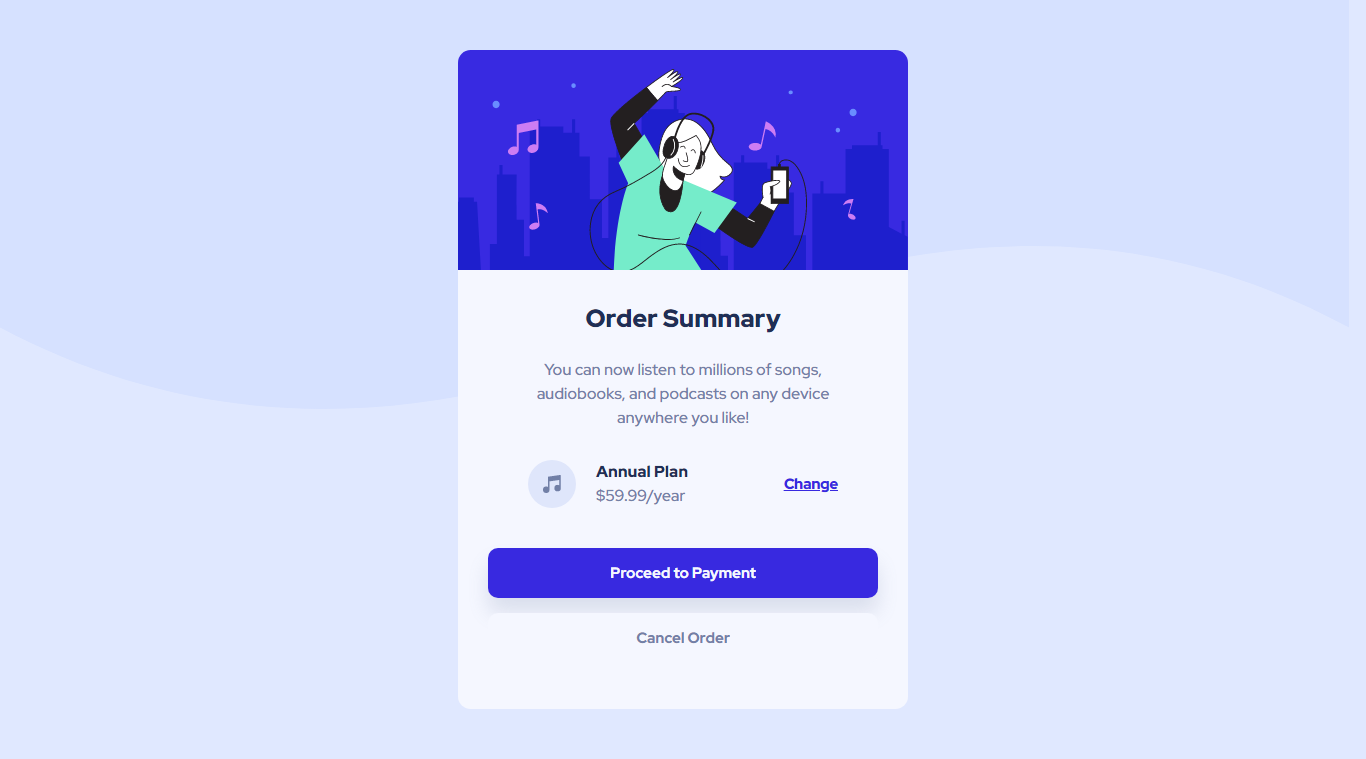
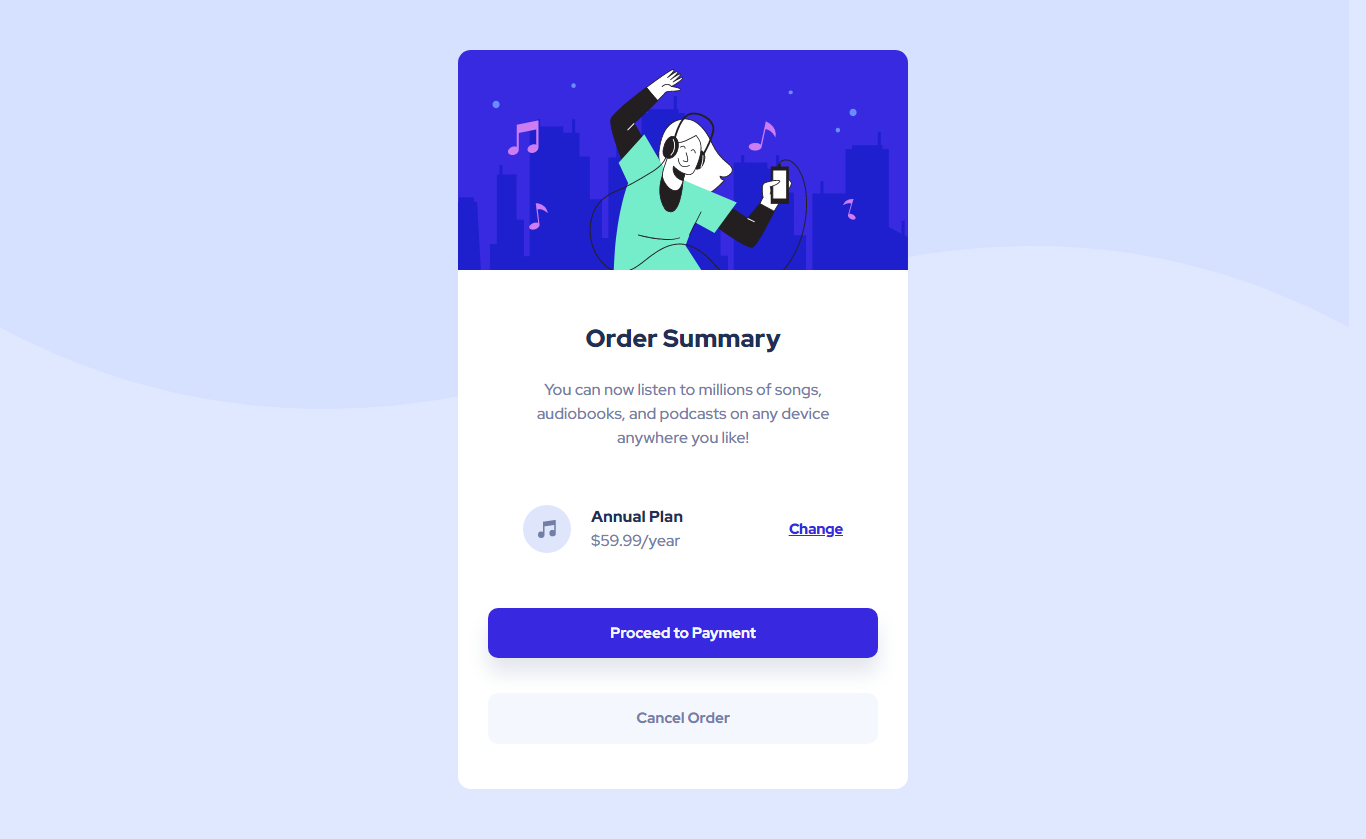
finale modifications

diff --git a/scss/main.scss b/scss/main.scss
@@ -37,7 +37,7 @@ body {
 }
 
 .card {
-  background-color: whitesmoke;
+  background-color: white;
   border-radius: 1.25rem;
   overflow: hidden;
   width: 45rem;
@@ -55,7 +55,7 @@ body {
       font-weight: 900;
       color: $darkBlue;
       text-align: center;
-      margin-top: 3rem;
+      margin-top: 2rem;
     }
 
     p {
@@ -70,7 +70,7 @@ body {
       display: flex;
       justify-content: space-between;
       align-items: center;
-      margin: 3rem 4rem 4rem 4rem;
+      margin:  3.5rem;
 
       &--plan {
         display: grid;
@@ -113,7 +113,7 @@ body {
       border-radius: 1rem;
       font-size: 1.5rem;
       font-weight: 700;
-      margin-top: 3rem;
+      margin-top: 2rem;
       margin-bottom: 1.5rem;
       &:hover {
         cursor: pointer;

diff --git a/css/main.css b/css/main.css
@@ -119,7 +119,7 @@ body {
 }
 
 .card {
-  background-color: whitesmoke;
+  background-color: white;
   border-radius: 1.25rem;
   overflow: hidden;
   width: 45rem;
@@ -147,7 +147,7 @@ body {
   font-weight: 900;
   color: #1f2f56;
   text-align: center;
-  margin-top: 3rem;
+  margin-top: 2rem;
 }
 
 .card .content p {
@@ -168,7 +168,7 @@ body {
   -webkit-box-align: center;
       -ms-flex-align: center;
           align-items: center;
-  margin: 3rem 4rem 4rem 4rem;
+  margin: 3.5rem;
 }
 
 .card .content .payplan--plan {
@@ -217,7 +217,7 @@ body {
   border-radius: 1rem;
   font-size: 1.5rem;
   font-weight: 700;
-  margin-top: 3rem;
+  margin-top: 2rem;
   margin-bottom: 1.5rem;
 }
 
